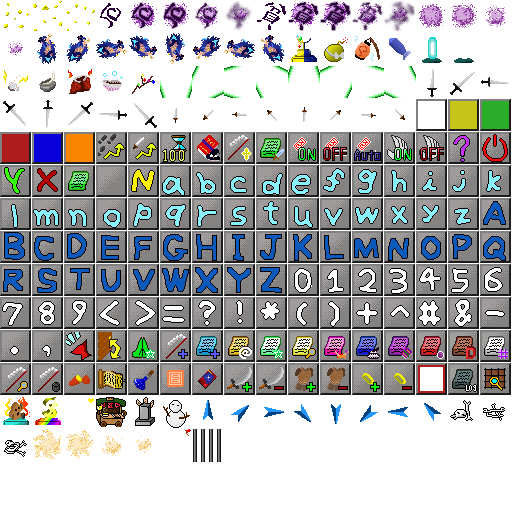
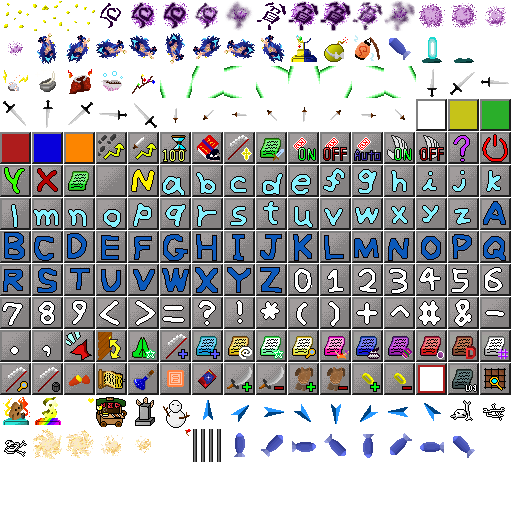
add missle

Changed region(s): [[0.4375, 0.8438, 0.9375, 0.9062]]

diff --git a/th_crawl/monster.cpp b/th_crawl/monster.cpp
@@ -439,6 +439,10 @@ bool monster::SetMonster(int map_num_, int map_id_, int id_, uint64_t flag_, int
 		} else {
 			hp /=2;
 			max_hp /=2;
+			if(max_hp < 1) {
+				hp =1;
+				max_hp =1;
+			}
 		}	
 	}
 
@@ -1916,7 +1920,10 @@ bool monster::draw(shared_ptr<DirectX::SpriteBatch> pSprite, shared_ptr<DirectX:
 		img_effect_veiling.draw(pSprite, x_, y_,0.0f,scale_,scale_, 255);
 	}
 
-	return_ = image->draw(pSprite, x_, y_,0.0f,scale_,scale_,id == MON_ENSLAVE_GHOST?128:255);
+	int blue_ = s_frozen==0?255:127 +  std::max(0, 25-s_frozen)*128/25;
+	D3DCOLOR color_ = D3DCOLOR_ARGB(id == MON_ENSLAVE_GHOST?128:255, blue_,blue_,255);
+
+	return_ = image->draw(pSprite, x_, y_,0.0f,scale_,scale_,color_);
 	if (id == MON_DANCING_ARMOUR || id == MON_DANCING_WEAPON) {
 		img_mons_dancing_weapon.draw(pSprite, x_, y_,0.0f,scale_,scale_, 255);
 	}
@@ -4140,6 +4147,13 @@ void monster::special_action(int delay_, bool smoke_)
 			}
 		}
 		break;
+	case MON_MISSLE:
+		if (smoke_){
+			env[current_level].MakeSmoke(coord_def(position.x, position.y), img_fog_normal, SMT_NORMAL, rand_int(3, 4), 0, this);
+		} else {
+			image = &img_tanmac_missle[GetAngleToDirec(direction)];
+		}
+		break;
 	case MON_ENSLAVE_GHOST:
 	{
 		if(id2 == MON_SONBITEN_SPINTOWIN) {
@@ -5342,21 +5356,14 @@ int MoveAngleTowards(int A, int B, int delta)
         return A + (diff > 0 ? delta : -delta);
 }
 
-bool monster::special_state(bool is_sight_for_monster) {
-	switch(id) {
-	case MON_ENSLAVE_GHOST:
+bool monster::special_move(bool is_sight_for_monster, bool can_bounce, float angle_) {
+	if(target) {
+		int target_angle = GetBaseAngle(GetPositionToAngle(position.x,position.y,target->position.x, target->position.y));
+		direction = MoveAngleTowards(direction, target_angle, angle_);
+	}
+	if(move(inttodirec(GetAngleToDirec(direction),position.x,position.y), false) == 2)
 	{
-		if(id2 != MON_SONBITEN_SPINTOWIN)
-			break;
-	} //break passthorough
-	case MON_SONBITEN_SPINTOWIN:
-	{
-		if(target) {
-			int target_angle = GetBaseAngle(GetPositionToAngle(position.x,position.y,target->position.x, target->position.y));
-			direction = MoveAngleTowards(direction, target_angle, 30);
-		}
-		if(move(inttodirec(GetAngleToDirec(direction),position.x,position.y), false) == 2)
-		{
+		if(isMultipleAttack(false)) {
 			int num_=0;
 			for(int i=0;i<3;i++,num_++)
 				if(atk_type[i] == ATT_NONE)
@@ -5368,8 +5375,10 @@ bool monster::special_state(bool is_sight_for_monster) {
 				multipleAttack(nullptr, temp_att);
 			}
 		}
-		else
-		{
+	}
+	else
+	{
+		if(can_bounce) {
 			for(int i = 0; i < 10; i++) {
 				direction += rand_int(120,240);
 				direction = GetBaseAngle(direction);
@@ -5379,10 +5388,40 @@ bool monster::special_state(bool is_sight_for_monster) {
 					break;
 				}
 			}
+		} else {
+			//더이상 이동을 못할때
+			return true;
 		}
-		CheckSightNewTarget();
+	}
+	CheckSightNewTarget();
+	return false;
+}
+
+bool monster::special_state(bool is_sight_for_monster) {
+	switch(id) {
+	case MON_ENSLAVE_GHOST:
+	{
+		if(id2 != MON_SONBITEN_SPINTOWIN)
+			break;
+	} //break passthorough
+	case MON_SONBITEN_SPINTOWIN:
+	{
+		special_move(is_sight_for_monster, true, 30);
 	}
 		return true;
+	case MON_MISSLE:
+	{
+		if(special_move(is_sight_for_monster, false, 45)) {
+			bool ice_ =  you.GetProperty(TPT_STG_ICE_SHOT);
+			int damage_ = 3 +level/3;
+			attack_infor temp_infor(randC(2,damage_),damage_*2,99,&you,you.GetParentType(),ATT_NORMAL_BLAST,name_infor(LOC_SYSTEM_ATT_BURST));
+			BaseBomb_forAlly(position, &img_blast[ice_?4:0],temp_infor, &you, ice_);
+			Sleep(30);
+			env[current_level].ClearEffect();
+			dead(PRT_NEUTRAL, false);
+		}
+	}
+	return true;
 	default:
 		break;
 	}

diff --git a/th_crawl/player.cpp b/th_crawl/player.cpp
@@ -119,7 +119,7 @@ s_elec(0), s_paralyse(0), s_levitation(0), s_glow(0), s_graze(0), s_silence(0), 
  s_dimension(0), s_timestep(0),  s_mirror(0), s_lunatic(0), s_paradox(0), s_trans_panalty(0), s_the_world(0), s_mana_delay(0),
  s_stat_boost(0), s_stat_boost_value(0), s_eirin_poison(0), s_eirin_poison_time(0), s_exhausted(0), s_stasis(0),
 force_strong(false), force_turn(0), s_unluck(0), s_super_graze(0), s_none_move(0), s_night_sight(0), s_night_sight_turn(0), s_sleep(0),
-s_pure(0),s_pure_turn(0), drowned(false), s_weather(0), s_weather_turn(0), s_evoke_ghost(0), s_oil(0), s_fire(0), s_tracking(0), s_shield(), alchemy_buff(ALCT_NONE), alchemy_time(0),
+s_pure(0),s_pure_turn(0), drowned(false), s_weather(0), s_weather_turn(0), s_evoke_ghost(0), s_oil(0), s_fire(0), s_tracking(0), s_shooting_turn(0), s_shield(), alchemy_buff(ALCT_NONE), alchemy_time(0),
 teleport_curse(false), magician_bonus(0), poison_resist(0),fire_resist(0),ice_resist(0),elec_resist(0),confuse_resist(0), invisible_view(0), power_keep(0), 
 togle_invisible(false), battle_count(0), youMaxiExp(false),
 uniden_poison_resist(0), uniden_fire_resist(0), uniden_ice_resist(0), uniden_elec_resist(0),uniden_confuse_resist(0), uniden_invisible_view(0), uniden_power_keep(0)
@@ -303,6 +303,7 @@ void players::init() {
 	s_oil = 0;
 	s_fire = 0;
 	s_tracking = 0;
+	s_shooting_turn = 0;
 	s_shield.percent = 0;
 	s_shield.value = 0;
 	s_shield.turn = 0;
@@ -539,6 +540,7 @@ void players::SaveDatas(FILE *fp)
 	SaveData<int>(fp, s_oil);
 	SaveData<int>(fp, s_fire);
 	SaveData<int>(fp, s_tracking);
+	SaveData<int>(fp, s_shooting_turn);
 	SaveData<shield_struct>(fp, s_shield);
 	SaveData<ALCHEMY_LIST>(fp, alchemy_buff);
 	SaveData<int>(fp, alchemy_time);
@@ -794,6 +796,9 @@ void players::LoadDatas(FILE *fp)
 	LoadData<int>(fp, s_fire);
 	if(!isPrevVersion(loading_version_string, "ver1.1")) {
 		LoadData<int>(fp, s_tracking);
+	}
+	if(!isPrevVersion(loading_version_string, "ver1.101")) {
+		LoadData<int>(fp, s_shooting_turn);
 	}
 	if(!isPrevVersion(loading_version_string, "ver1.11")) {
 		LoadData<shield_struct>(fp, s_shield);
@@ -1377,14 +1382,15 @@ bool players::offsetmove(const coord_def &c)
 
 bool shooing_fire_effect(coord_def pos_, int rand_graphic_, bool burst_, bool ice_, float burst_multi_)
 {
-	if(burst_) {
-		attack_infor temp_infor(you.GetAttack(false)*burst_multi_,you.GetAttack(true)*burst_multi_,99,&you,you.GetParentType(),ATT_NORMAL_BLAST,name_infor(LOC_SYSTEM_ATT_BURST));
-		BaseBomb_forAlly(pos_, &img_blast[rand_graphic_],temp_infor, &you, ice_);	
-	}
-	if(!burst_ && ice_) {
-		unit* unit_ = env[current_level].isMonsterPos(pos_.x, pos_.y);
-		if(unit_)
+	unit* unit_ = env[current_level].isMonsterPos(pos_.x, pos_.y);
+	if(unit_) {
+		if(burst_) {
+			attack_infor temp_infor(you.GetAttack(false)*burst_multi_,you.GetAttack(true)*burst_multi_,99,&you,you.GetParentType(),ATT_NORMAL_BLAST,name_infor(LOC_SYSTEM_ATT_BURST));
+			BaseBomb_forAlly(pos_, &img_blast[rand_graphic_],temp_infor, &you, ice_);	
+		}
+		if(!burst_ && ice_) {
 			unit_->SetFrozen(10);
+		}
 	}
 	return true;
 }
@@ -1538,6 +1544,20 @@ bool players::shooing_fire(float bonus_)
 	}
 	Sleep(40);
 	env[current_level].ClearEffect();
+
+	s_shooting_turn+=10*bonus_;
+	if(GetProperty(TPT_STG_MISSLE) && s_shooting_turn> 100) {
+		for(int i = 0; i<4 ; i++)
+		{
+			monster* missle_ = BaseSummon(MON_MISSLE, rand_int(30,60), true, true, 1, &you, you.position, SKD_OTHER, -1);
+			if(missle_ != nullptr) {
+				missle_->LevelUpdown(you.level-1,0,0);
+				missle_->direction = GetPositionToAngle(position.x, position.y, missle_->position.x, missle_->position.y);
+			}
+		}
+		s_shooting_turn = 0;
+	}
+
 	return true;
 }
 

diff --git a/th_crawl/texture.cpp b/th_crawl/texture.cpp
@@ -1977,6 +1977,15 @@ textures(&texture_item03, 58, 255),
 textures(&texture_item03, 59, 255),
 textures(&texture_item03, 60, 255)
 };
+textures img_tanmac_missle[] = { textures(&texture_item03, 215, 255),
+textures(&texture_item03, 216, 255),
+textures(&texture_item03, 217, 255),
+textures(&texture_item03, 218, 255),
+textures(&texture_item03, 219, 255),
+textures(&texture_item03, 220, 255),
+textures(&texture_item03, 221, 255),
+textures(&texture_item03, 222, 255)
+};
 
 
 
@@ -3527,6 +3536,12 @@ int texturetoint(textures* input)
 		return 551;
 	else if(input == &img_mons_security_door)
 		return 552;
+	else if(input == &img_tanmac_missle[0] ||
+		input == &img_tanmac_missle[1]||input == &img_tanmac_missle[2] ||
+		input == &img_tanmac_missle[3]||input == &img_tanmac_missle[4] ||
+		input == &img_tanmac_missle[5]||input == &img_tanmac_missle[6] ||
+		input == &img_tanmac_missle[7])
+		return 553;
 	else
 	{
 		for (int i = 0; i < STYLE_NUM; i++)
@@ -4659,6 +4674,8 @@ textures* inttotexture(int input)
 		return &img_fog_heavenly_storm[0];
 	case 552:
 		return &img_mons_security_door;
+	case 553:
+		return &img_tanmac_missle[1];
 	default:
 		return &img_mons_default;
 	}

diff --git a/th_crawl/monster_list.cpp b/th_crawl/monster_list.cpp
@@ -1083,5 +1083,9 @@ const mon_infor mondata[] = {
 		
 	{ MON_SECURIRY_DOOR, 1, 0, name_infor(MON_SECURIRY_DOOR), &img_mons_security_door, 1, 10, 0,
 	{ 0, 0, 0 }, { ATT_NONE, ATT_NONE, ATT_NONE }, { name_infor(), name_infor(), name_infor() },
-	M_FLAG_NONE_MOVE | M_FLAG_NO_ATK | M_FLAG_CANT_NETURAL | M_FLAG_INANIMATE | M_FLAG_NO_STATE, 99, 0, 10 ,'X' }
+	M_FLAG_NONE_MOVE | M_FLAG_NO_ATK | M_FLAG_CANT_NETURAL | M_FLAG_INANIMATE | M_FLAG_NO_STATE, 99, 0, 10 ,'X' },
+
+	{ MON_MISSLE, 1, 0, name_infor(MON_MISSLE), &img_tanmac_missle[1], 1, 10, 0,
+	{ 0, 0, 0 }, { ATT_NORMAL, ATT_NONE, ATT_NONE }, { name_infor(LOC_SYSTEM_ATT_NORMAL), name_infor(), name_infor() },
+	M_FLAG_CANT_NETURAL | M_FLAG_FLY | M_FLAG_INANIMATE | M_FLAG_NO_STATE | M_FLAG_CAN_SEE_INVI | M_FLAG_PASSED_ALLY, 99, 0, 7 ,')' }
 };

diff --git a/th_crawl/monster.h b/th_crawl/monster.h
@@ -260,6 +260,7 @@ public:
 	bool isSpecialSight(coord_def c);//몬스터 특수시야
 	bool isMonsterSight(coord_def c, boolean okina = false);//해당 위치에 몬스터의 시야에 들어왔는가?
 	bool CanChase();
+	bool special_move(bool is_sight_for_monster, bool can_bounce, float angle_);
 	bool special_state(bool is_sight_for_monster);//모든 상태를 무시하고 자신만의 상태를 가짐
 	parent_type GetParentType();
 	bool isUnique();

diff --git a/th_crawl/shooting_sprint.cpp b/th_crawl/shooting_sprint.cpp
@@ -1330,9 +1330,7 @@ bool shooting_event(int num)
 						rand_reward.push(100+i-TPT_STG_START);
 					}
 					else if(!you.GetProperty((tribe_proper_type)i)) {
-						if(i != TPT_STG_MISSLE) {
-							rand_reward.push(100+i-TPT_STG_START);
-						}
+						rand_reward.push(100+i-TPT_STG_START);
 					}
 				}
 

diff --git a/th_crawl/create_mon.cpp b/th_crawl/create_mon.cpp
@@ -2203,6 +2203,13 @@ void SetResistMonster(monster* mon)
 		mon->poison_resist = 1;
 		mon->confuse_resist = 1;
 		break;
+	case MON_MISSLE:
+		mon->elec_resist = 3;
+		mon->fire_resist = 3;
+		mon->ice_resist = 3;
+		mon->poison_resist = 1;
+		mon->confuse_resist = 1;
+		break;
 	}
 }
 

diff --git a/th_crawl/monster_texture.h b/th_crawl/monster_texture.h
@@ -456,6 +456,7 @@ extern textures img_tanmac_sion[];
 extern textures img_tanmac_master_spark[];
 extern textures img_tanmac_sword[];
 extern textures img_tanmac_knife[];
+extern textures img_tanmac_missle[];
 extern textures img_tanmac_small[6][4];
 extern textures img_joypad_arrow[];
 

diff --git a/th_crawl/summon.cpp b/th_crawl/summon.cpp
@@ -43,7 +43,7 @@ bool summon_check(coord_def c, coord_def order, bool fly_, bool swim_)
 
 	
 	//막히지않은곳
-	if(!env[current_level].PostoCheckSight(order, c, 8))
+	if(!env[current_level].PostoCheckSight(order, c, isShootingSprint()?20:7))
 		return false;
 
 	//if(order == &you)

diff --git a/th_crawl/mainloop.cpp b/th_crawl/mainloop.cpp
@@ -39,7 +39,7 @@ extern bool saveexit;
 
 extern HANDLE mutx;
 
-const char *version_string = "ver1.101";
+const char *version_string = "ver1.102";
 extern int g_tile_size;
 
 bool isPrevVersion(const string& versionstring, const string& targetstring);

diff --git a/th_crawl/enumMapBuilder.h b/th_crawl/enumMapBuilder.h
@@ -284,6 +284,7 @@
 	MONLIST_X(MON_OTTER_SPIRIT) \
 	MONLIST_X(MON_SONBITEN_SPINTOWIN) \
 	MONLIST_X(MON_SECURIRY_DOOR) \
+	MONLIST_X(MON_MISSLE) \
 	MONLIST_X(MON_MAX)
 
 

diff --git a/th_crawl/player.h b/th_crawl/player.h
@@ -314,6 +314,7 @@ public:
 	int s_oil;
 	int s_fire;
 	int s_tracking;
+	int s_shooting_turn;
 	shield_struct s_shield;
 
 
